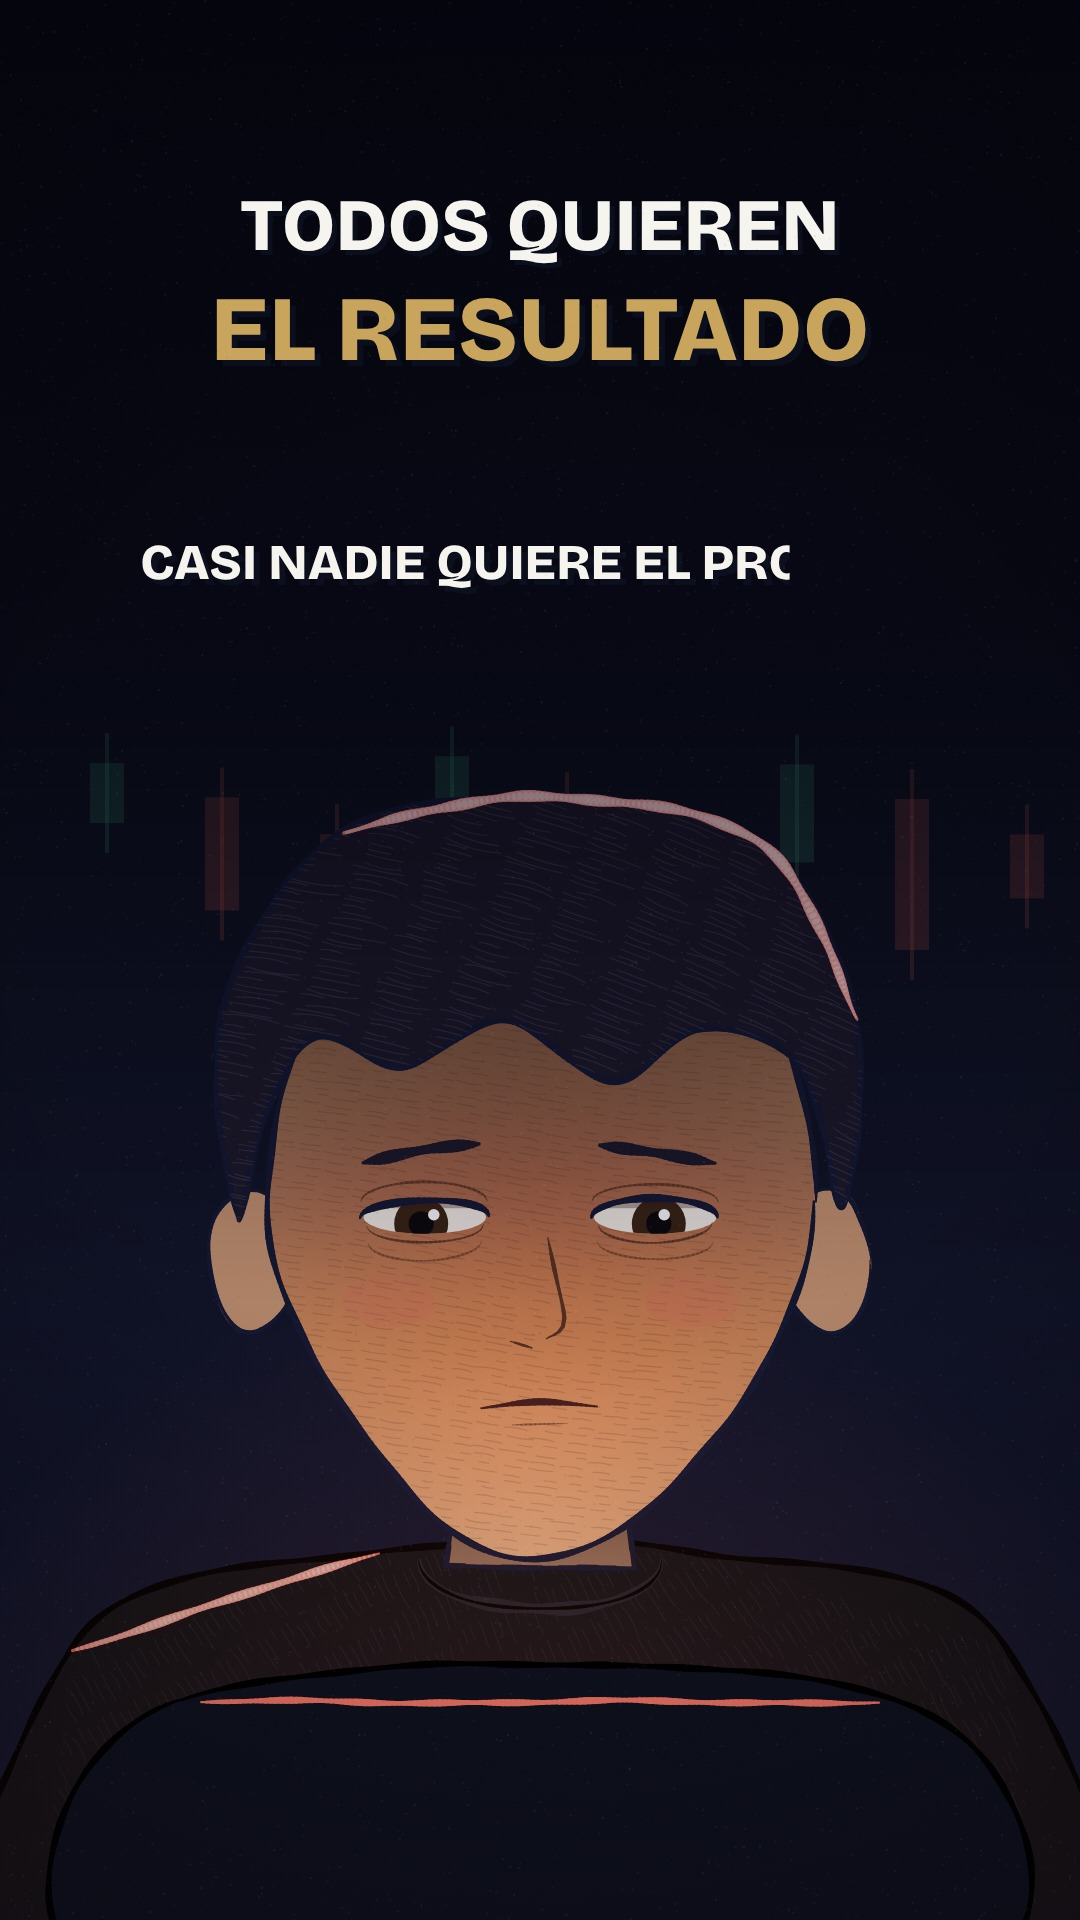
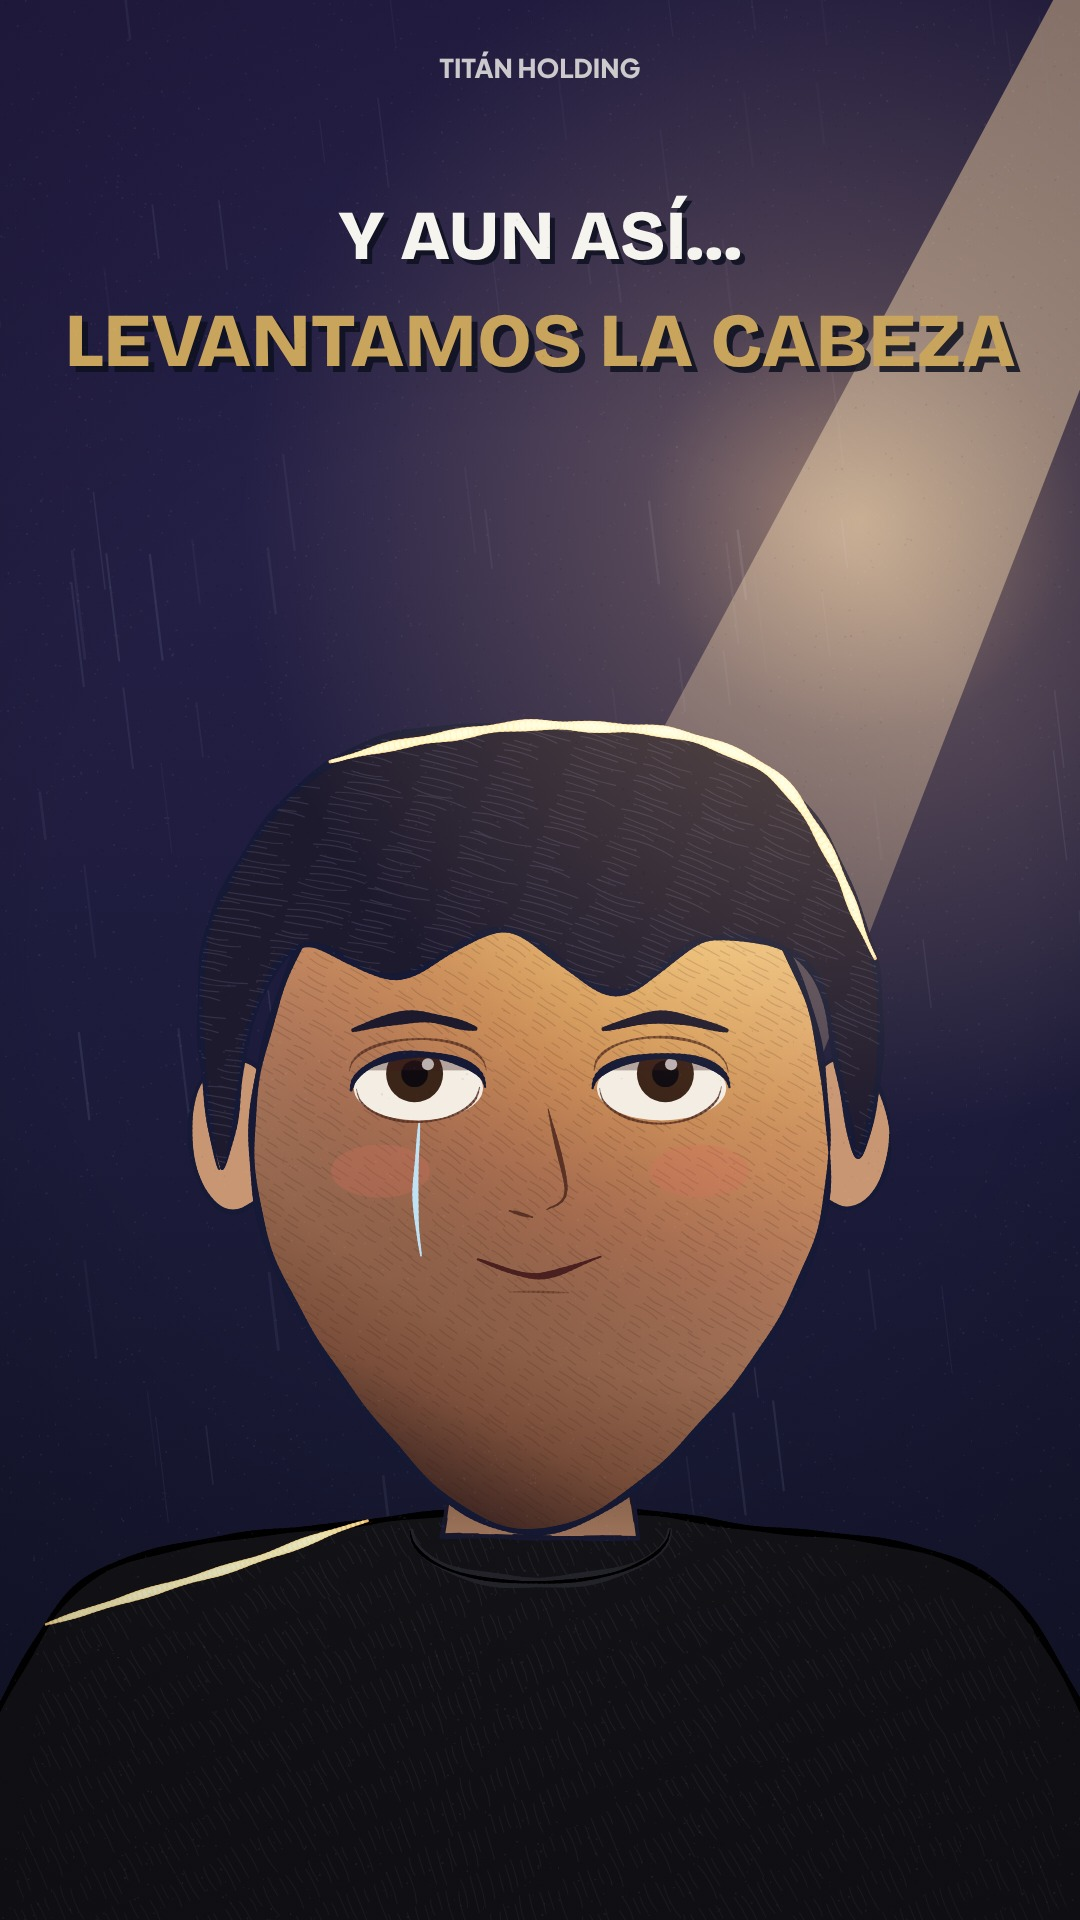
TITÁN reflexión: portada nueva con «levantamos la cabeza» (la anterior tenía texto cortado); regla de QC de portadas
Claude-Session: https://claude.ai/code/session_01Fv3dYovcGeQf3dkKd815CQ

diff --git a/tools/ref2/film.js b/tools/ref2/film.js
@@ -164,5 +164,7 @@ if (has('partida')) { const t_s = AS('partida', 'Si hoy estás'), t_nf = AS('par
     filmGrain(c, T, .05);
   }, true); }
 
-function cover(c) { drawScene(c, SC[0], 2.6); }
+// portada: el momento de «levantamos la cabeza» (luz dorada), con el titular completo y la firma
+function cover(c) { const S = SC.find(x => x.id === 'consecuencias') || SC[0], tl = has('consecuencias') ? As('consecuencias', 'levantamos la cabeza.') : 2;
+  drawScene(c, S, tl + 1.8); resetT(c); INKC = C.ink; tx(c, 'TITÁN HOLDING', 540, 70, { size: 26, f: 'ui', col: C.chalk, al: .8 }); }
 startFilm('reflexion-punto-de-partida', cover);

diff --git a/entregas/titan/reflexion_levantarse/PUBLICACION.md b/entregas/titan/reflexion_levantarse/PUBLICACION.md
@@ -4,7 +4,7 @@
 |---|---|---|
 | `TITAN_REFLEXION_Shorts.mp4` | 1080×1920 · 30 fps · −14 LUFS · 20,1 MB | 36,6 s |
 | `TITAN_REFLEXION_TikTok.mp4` | 1080×1920 · 30 fps · −14 LUFS · 31,4 MB | 61,4 s |
-| `TITAN_REFLEXION_Portada.jpg` | primer fotograma: rostro cansado frente a la pantalla en rojo, «TODOS QUIEREN EL RESULTADO» | — |
+| `TITAN_REFLEXION_Portada.jpg` | momento de «Y AUN ASÍ… LEVANTAMOS LA CABEZA»: rostro con la lágrima y el rayo de luz dorada, firma TITÁN HOLDING | — |
 | `TITAN_REFLEXION_Shorts.srt` y `TITAN_REFLEXION_TikTok.srt` | subtítulos de 3 palabras sincronizados | — |
 
 - **Guion:** aprobado por Lady (12 nov 2026), en «nosotros», con su frase: «Al final tuvimos que asumir las consecuencias de nuestras malas decisiones. Y aun así, levantamos la cabeza.»

diff --git a/CLAUDE.md b/CLAUDE.md
@@ -121,6 +121,7 @@
 - En NAS, el dinero y los lotes quedan tapados desde el primer cuadro.
 - Verificar cifras, fechas, voz (ASR), LUFS, duración con el audio final y peso de cada archivo.
 - `npx hyperframes check` sin errores.
+- Portada: abrirla y mirarla antes de entregar. Ningún texto a medio escribir (tomarla después de que terminen las animaciones de texto) y con el momento más fuerte del video, no siempre el primer cuadro (lección de la reflexión, 12 nov 2026).
 
 ## Notas
 - Short 2 del paquete Nasdaq: desfase leve de subtítulos (~1 s) entre los segundos 10 y 15. Lady decidió dejarlo así (7 nov 2026). En los videos siguientes, `sync_check.py` es obligatorio antes de entregar.
